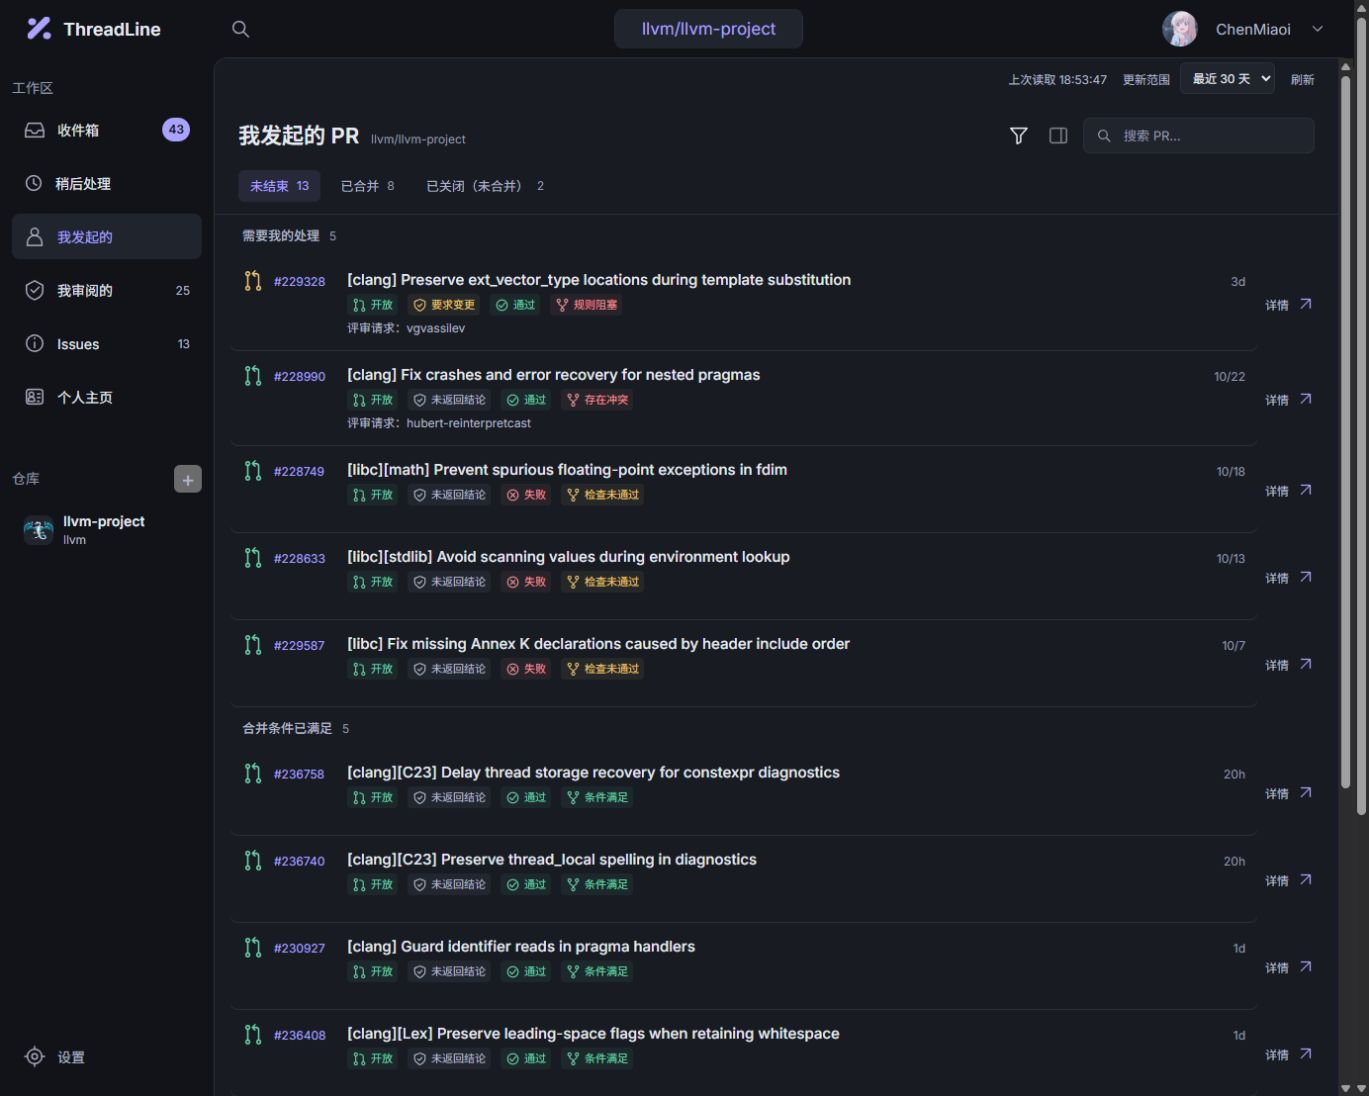
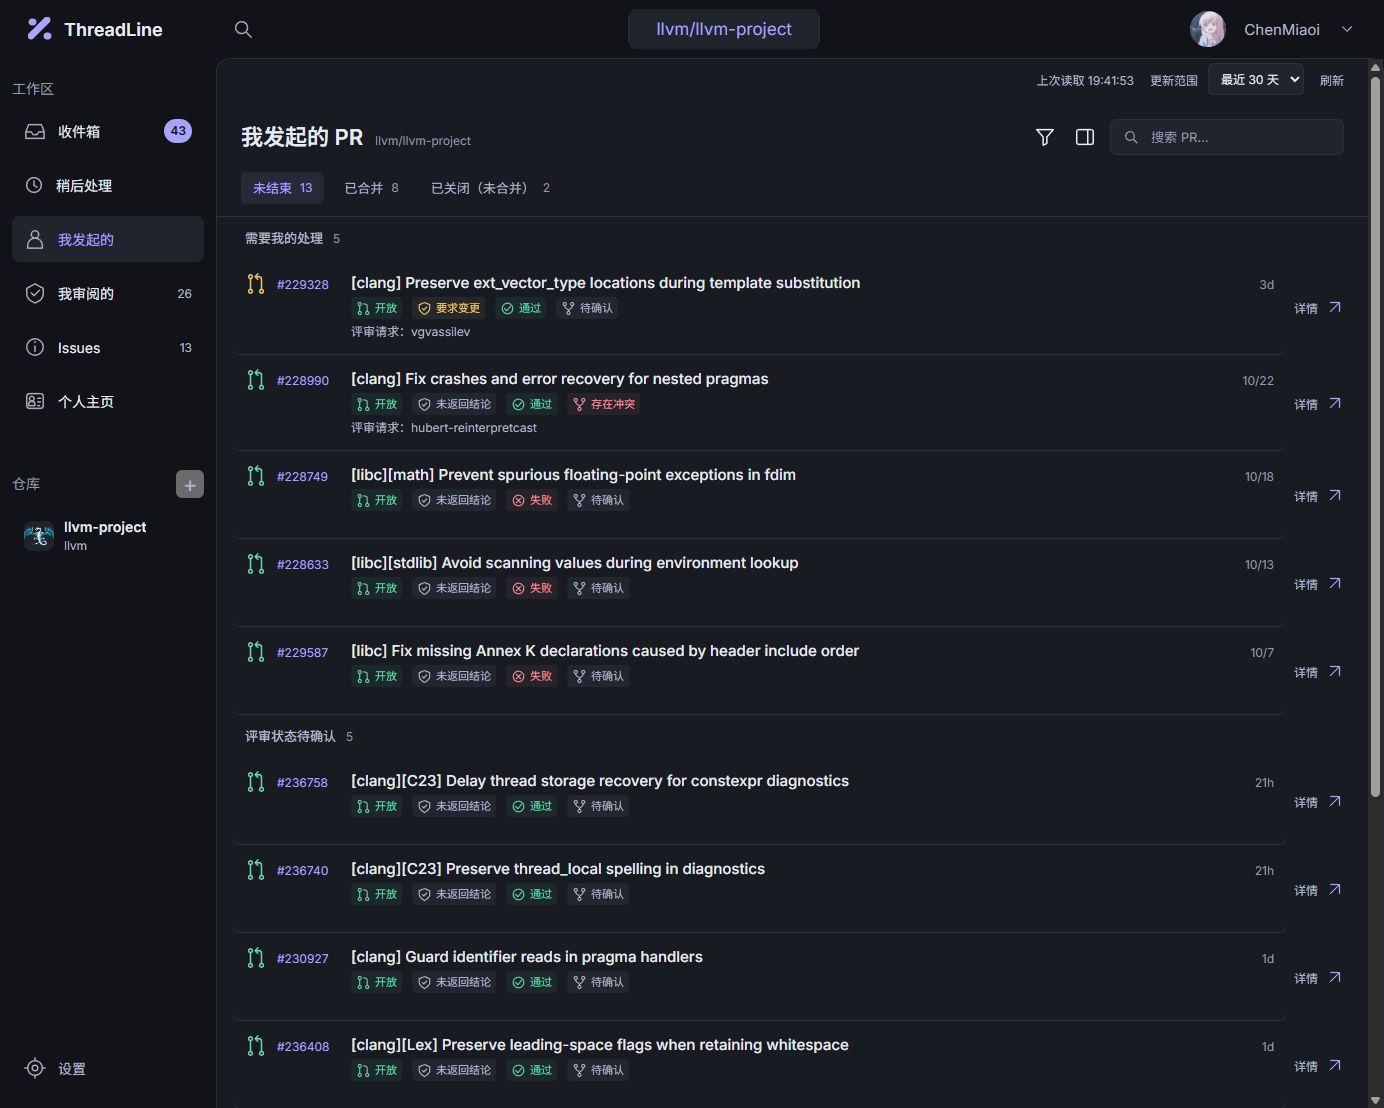
docs: refresh the README workspace screenshot

diff --git a/README.md b/README.md
@@ -11,7 +11,7 @@ ThreadLine brings the pull requests, reviews, and issues that need your attentio
 
 ![ThreadLine authored PR workspace for the public llvm/llvm-project repository](docs/images/workspace.png)
 
-_Current development UI, showing the public `llvm/llvm-project` repository in Simplified Chinese._
+_ThreadLine workspace showing the public `llvm/llvm-project` repository in Simplified Chinese._
 
 ## Your repository, in one place
 
